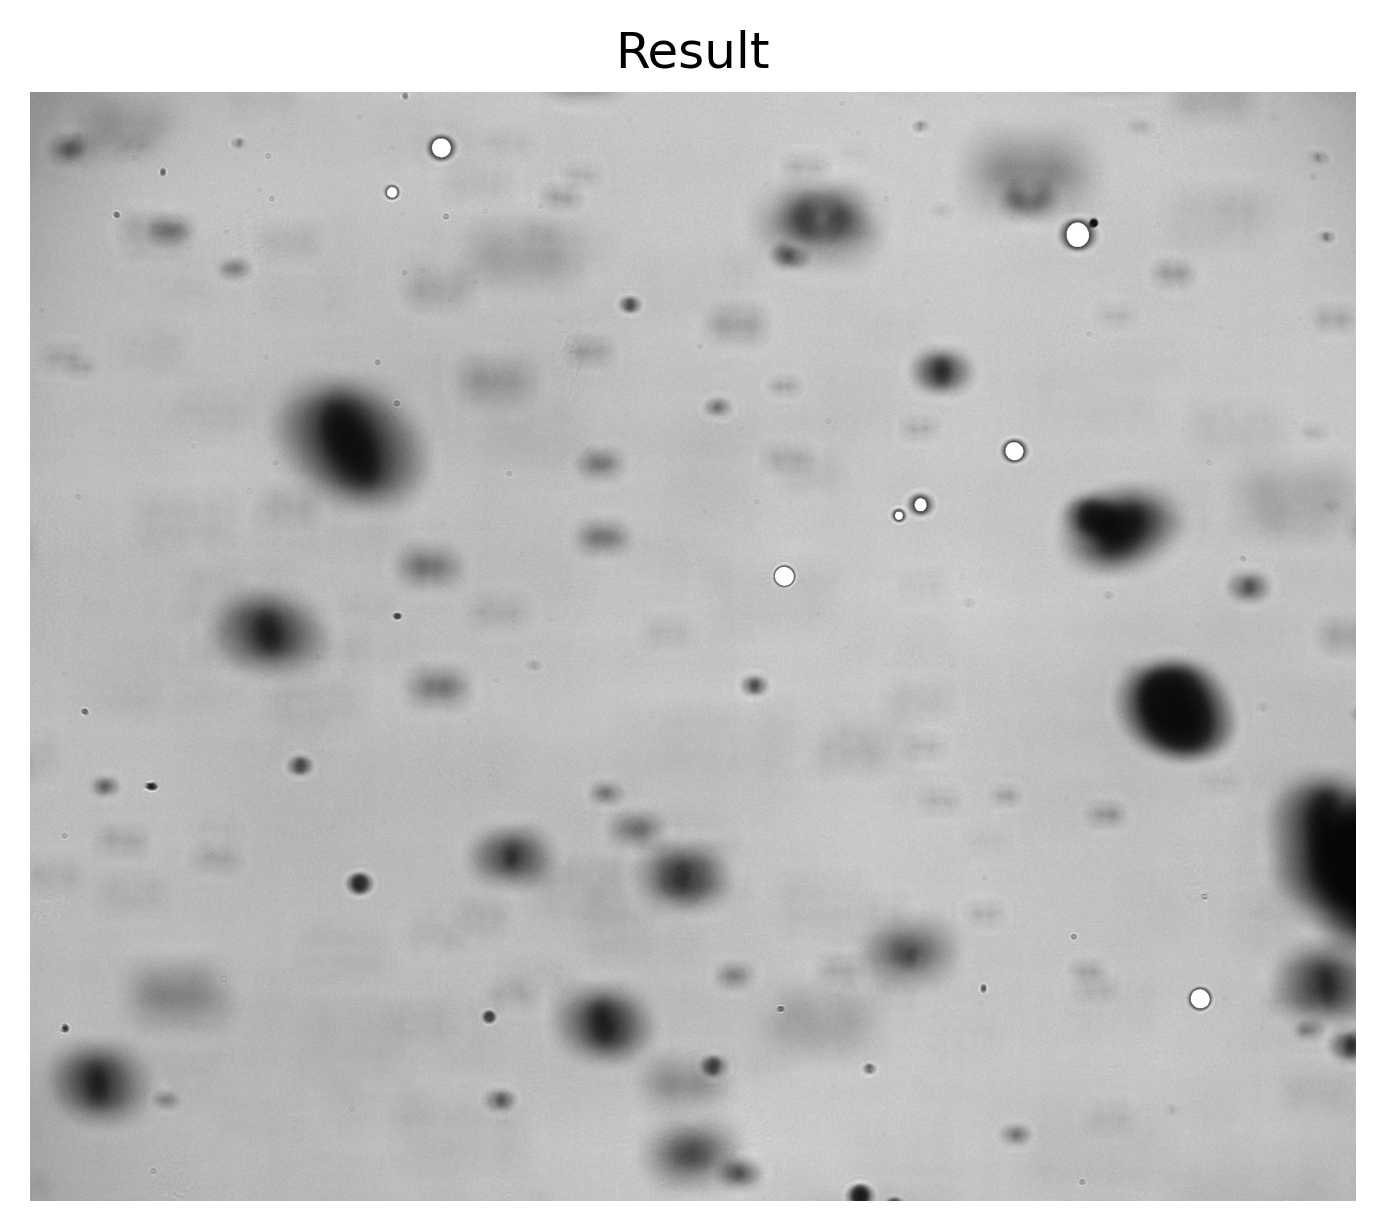
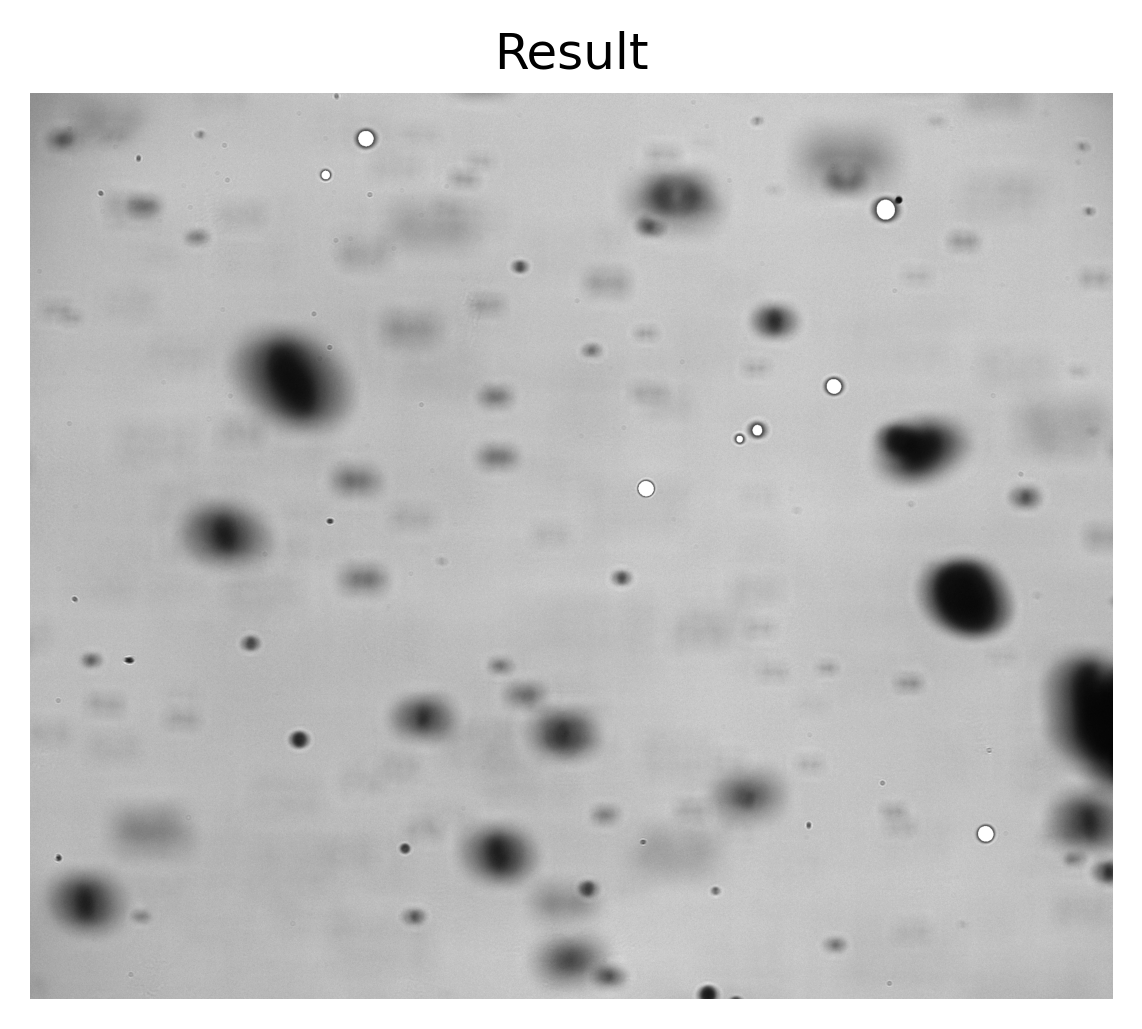
Update plot all steps

diff --git a/Python_Algorithmus/functions.py b/Python_Algorithmus/functions.py
@@ -494,32 +494,29 @@ class PLOT_Shadowgraphy:
         
    
 ###########################    
-    def plot_all_steps(self,j,  orimg , blur, fill, fbin_f, validCentroids, radius, img_mit_contour , save_img , folder_eval ,pic_name) :
+    def plot_all_steps(self,j,  orimg , blur, i_bin , i_bin_f, validCentroids, radius, img_mit_contour , save_img , folder_eval ,pic_name) :
 
         plt.close()
-        plt.figure(j,(10,10))
+        plt.figure(j)
         
-        fig,ax=plt.subplots(3, 2)
+        fig,ax=plt.subplots(1, 5)
         
-        ax[0,0].imshow(orimg, cmap='gray')
-        ax[0,0].set_title( 'Original image')
-        ax[0,0].axis('off')
+        ax[0].imshow(orimg, cmap='gray')
+        ax[0].set_title( 'Original image', fontsize=8)
+        ax[0].axis('off')
         
-        ax[0,1].imshow(fill, cmap='gray')
-        ax[0,1].set_title( 'Binary image')
-        ax[0,1].axis('off')
+        ax[1].imshow(blur, cmap='gray')
+        ax[1].set_title( 'Preprocessed image', fontsize=8)
+        ax[1].axis('off')
         
-        ax[1,0].imshow(fbin_f, cmap='gray')
-        ax[1,0].set_title( 'Filtered Binary image')
-        ax[1,0].axis('off')
+        ax[2].imshow(i_bin, cmap='gray')
+        ax[2].set_title( 'Binary image', fontsize=8)
+        ax[2].axis('off')
         
-        ax[1,1].imshow(fill, cmap='gray')
-        ax[1,1].set_title( 'Binary image')
-        ax[1,1].axis('off')
+        ax[3].imshow(i_bin_f, cmap='gray')
+        ax[3].set_title( 'Filtered Binary image', fontsize=8)
+        ax[3].axis('off')
         
-        ax[2,0].imshow(fbin_f, cmap='gray')
-        ax[2,0].set_title( 'Filtered Binary image')
-        ax[2,0].axis('off')
         
         if not len(validCentroids)==0 :
             y_i=validCentroids[:,0]
@@ -527,11 +524,11 @@ class PLOT_Shadowgraphy:
   
             for i in range(0, len(radius)):
                 c = plt.Circle((x_i[i], y_i[i]), radius[i], color='green', linewidth=1, fill=False)
-                ax[2,0].add_artist(c)
+                ax[4].add_artist(c)
         
-        ax[2,1].imshow(img_mit_contour, cmap='gray')
-        ax[2,1].set_title( 'Final Result')
-        ax[2,1].axis('off')
+        ax[4].imshow(img_mit_contour, cmap='gray')
+        ax[4].set_title( 'Final Result', fontsize=8)
+        ax[4].axis('off')
         
         
         if save_img :
@@ -539,7 +536,7 @@ class PLOT_Shadowgraphy:
             plt.savefig(filename, bbox_inches='tight', dpi=300)
             
         plt.show()
-        plt.close()
+        plt.close('all')
         return
             
 ###########################    

diff --git a/Python_Algorithmus/Shadography_evaluation.py b/Python_Algorithmus/Shadography_evaluation.py
@@ -62,7 +62,7 @@ min_dif=90
 plotten_erg    =True
 
 # Plot all Steps for the Detection
-plot_all_steps=False       
+plot_all_steps=False    
 
 
 # Plot result of the filter over the difference between center and edge of each drop
@@ -211,7 +211,7 @@ for i_folder, subfolder in enumerate(subfolders):
         DROPS.radien_in_mu_m(radius, radius_contour, area, ratio, scale)    
     
         if plot_all_steps :
-            plot_func.plot_all_steps( i_pic,orimg ,image_blur, image_bin,image_bin_filtered , drops_pro_pic_f.centroids, radius, image_with_drops , save_img , evaluation_folder, pic_name) 
+            plot_func.plot_all_steps( i_pic,orimg ,image_blur, image_bin_fill, image_bin_filtered , drops_pro_pic_f.centroids, radius, image_with_drops , save_img , evaluation_folder, pic_name) 
         if plotten_erg:
             plot_func.plot_final_result(i_pic, orimg, image_with_drops , save_img , evaluation_folder, pic_name)
         

diff --git a/README.md b/README.md
@@ -9,6 +9,7 @@ In this GitHub Repository two different variants are presented for the evaluatio
 
 The Shadwowgraphy is one way of fluid visualization. A Shadowgraphy measurement setup consists essentially of the following elements. A bright pulsating light source, a magnifying lens/microscope , a camera to store the images and the fluid to be visualized.
 
+<img src="setup_shadowgraphy.JPG" alt="Setup Shadowgraphy" width="600"/>
 
 In general, shadowgraphy is based on the difference in refractive index at the interface between two different media.
 Due to the backlighting, the light that does not interact with the object creates a bright background, and the fluid appears dark. 
@@ -47,7 +48,9 @@ The structure of the network is the [@Mask R-CNN](https://arxiv.org/abs/1703.068
 The implementation of the network was done by [@matterport](https://github.com/matterport/Mask_RCNN), where a good introduction to the structure of the neural network can be found. This was adopted and only necessary changes were made. 
 
 The Python script drops.py contains the necessary changes to the configuration of the neural network. 
-Furthermore there are three other scripts. 
+The network ist trained based on the weights use for [@balloon](https://github.com/matterport/Mask_RCNN/tree/master/samples/balloon) detection with 60 training images and 20 validation images.
+
+There are also three new scripts for evaluating a data set and the training process.
 
 The first (Master_drop_detection.py) allows the evaluation of Shadowgraphy images. The neural network creates a bounding box and a mask for each possible drop. Therefore the diameter can be determined in two ways. Once as the average of the two sides of the bounding box or using the mask and the equivalent circle diameter. The detected drops can be filtered afterwards. A minimum and maximum allowed size in pixels can be specified. Furthermore, too strongly deformed/non-circular drops can be filtered out by the aspect ratio of the bounding box. Every detected drop gets a score, which indicates the probability of a drop. Depending on the quality of the images the minimum allowed score can be adjusted.
 
